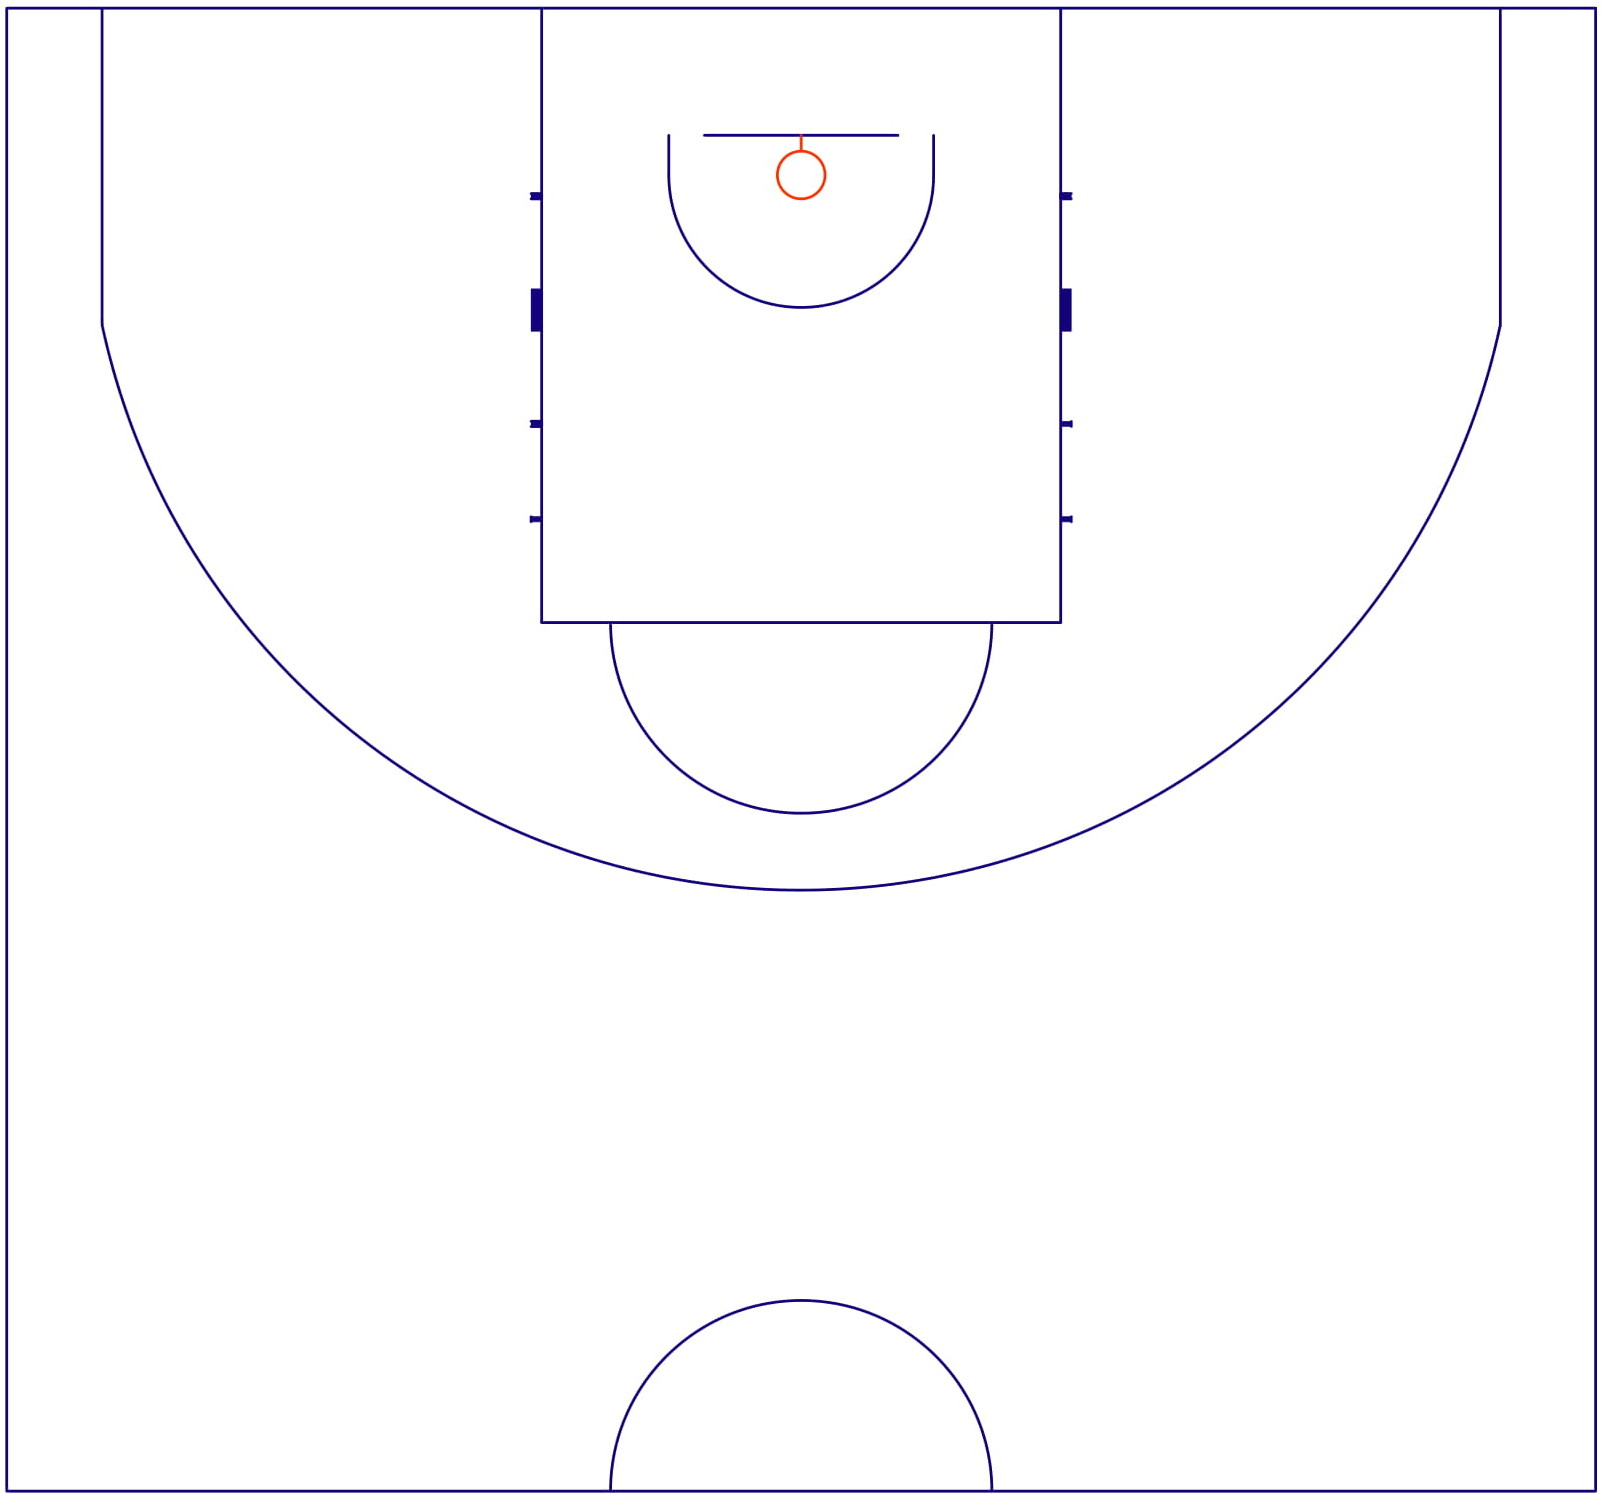
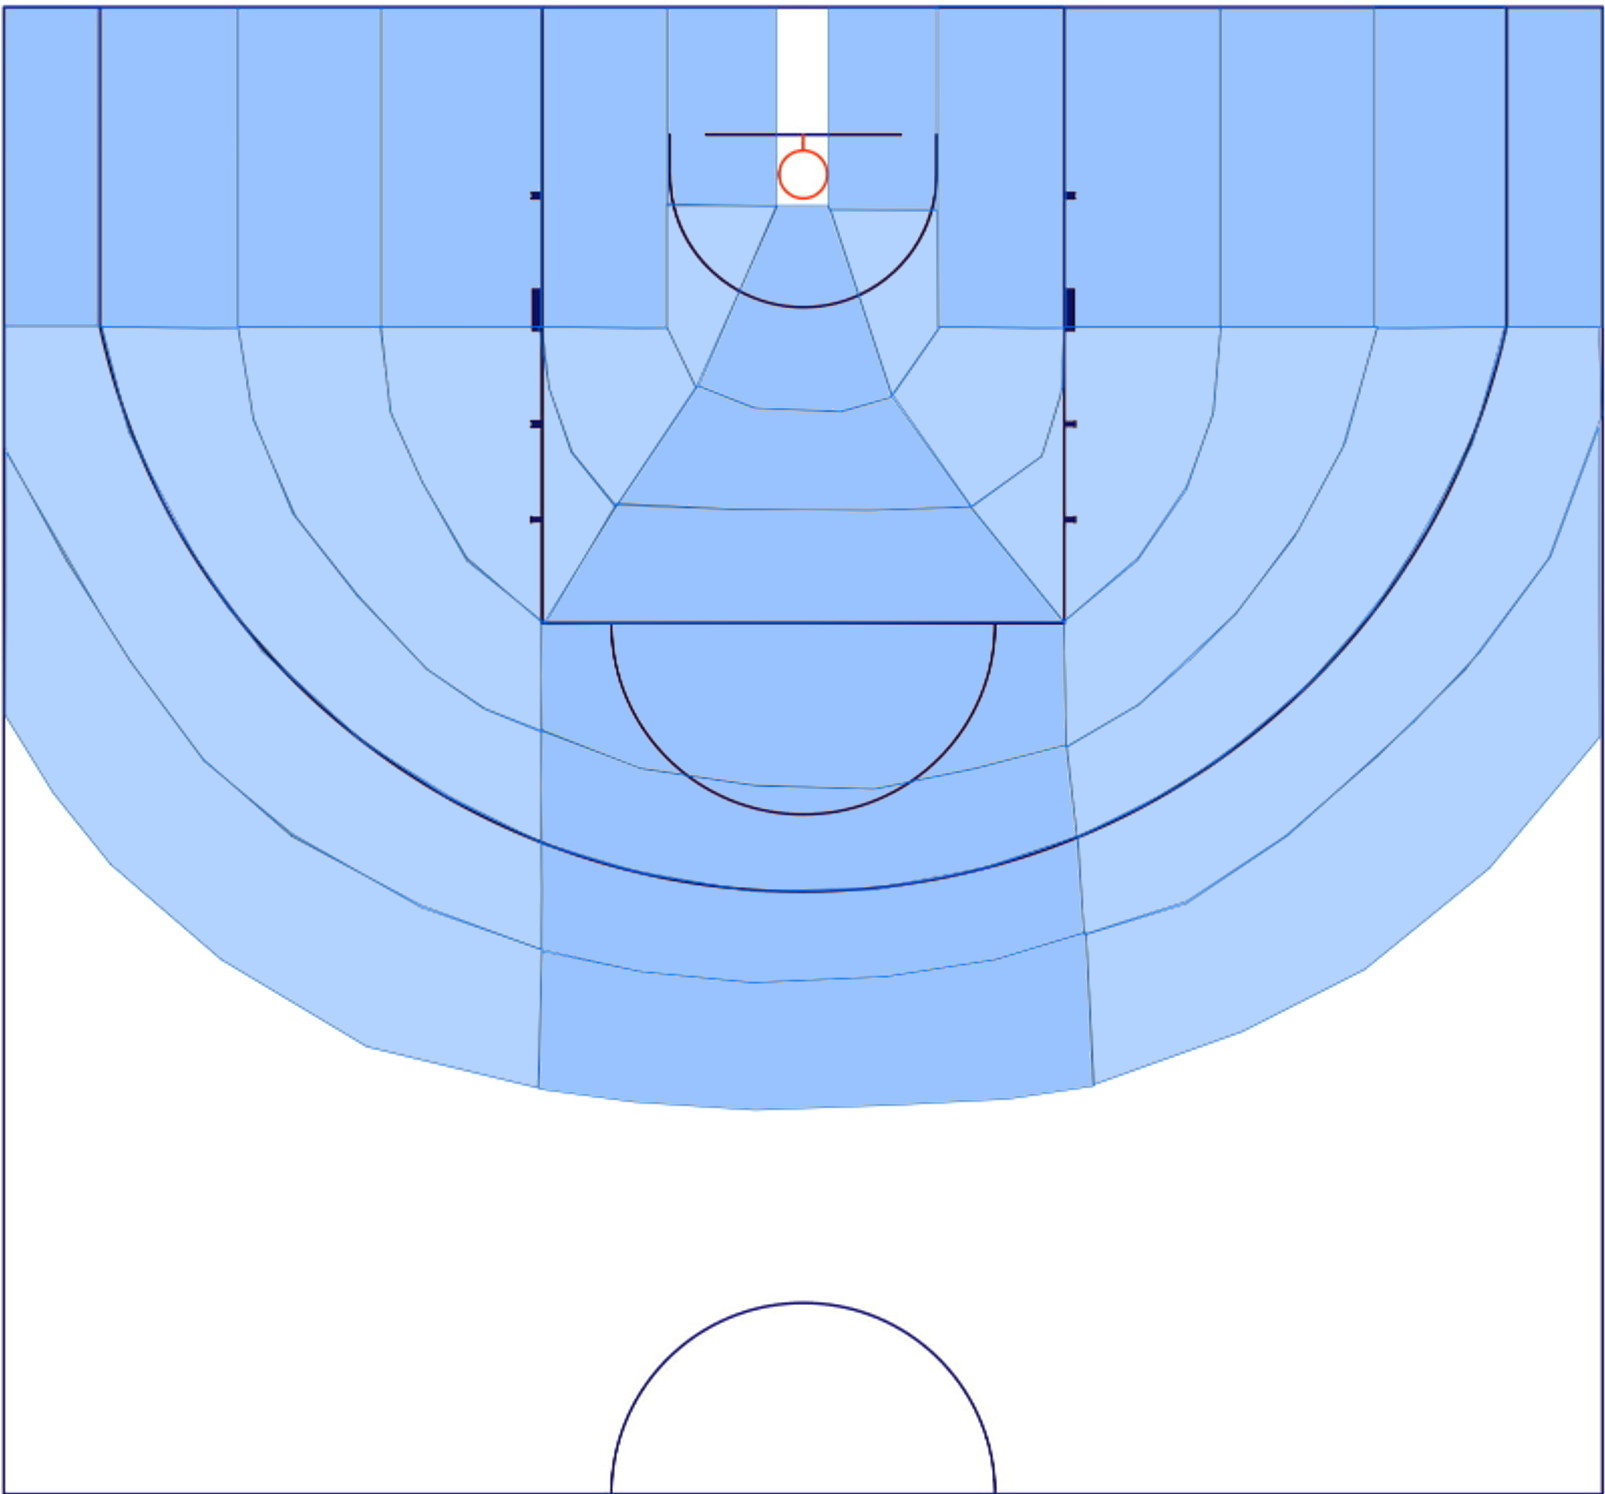
Added increment and decrement actions to shooting page.

diff --git a/app/src/app/private/shooting/shooting.page.html b/app/src/app/private/shooting/shooting.page.html
@@ -12,40 +12,71 @@
   <img id="courtImage" src="../../../assets/basketball-court.jpg" usemap="#courtMap">
 
   <map name="courtMap">
-      <area id="lCorner6" (click)="courtClick($event)" target="" alt="l-corner-6" title="l-corner-6" coords="8,8,100,326" shape="rect">
-      <area id="lCorner5" (click)="courtClick($event)" target="" alt="l-corner-5" title="l-corner-5" coords="104,327,239,9" shape="rect">
-      <area id="lCorner4" (click)="courtClick($event)" target="" alt="l-corner-4" title="l-corner-4" coords="240,9,382,327" shape="rect">
-      <area id="lCorner3" (click)="courtClick($event)" target="" alt="l-corner-3" title="l-corner-3" coords="382,9,541,327" shape="rect">
-      <area id="lCorner2" (click)="courtClick($event)" target="" alt="l-corner-2" title="l-corner-2" coords="542,9,666,327" shape="rect">
-      <area id="lCorner1" (click)="courtClick($event)" target="" alt="l-corner-1" title="l-corner-1" coords="667,9,775,206" shape="rect">
-      <area id="lWing6" (click)="courtClick($event)" target="" alt="l-wing-6" title="l-wing-6" coords="8,326,104,326,128,418,171,515,230,607,289,672,358,736,446,795,541,841,542,889,541,948,422,904,293,835,205,758,133,661,69,560,8,448" shape="poly">
-      <area id="lWing5" (click)="courtClick($event)" target="" alt="l-wing-5" title="l-wing-5" coords="104,327,240,329,255,420,297,516,359,595,427,668,487,709,541,731,542,842,453,797,368,744,264,651,198,558,131,432" shape="poly">
-      <area id="lWing4" (click)="courtClick($event)" target="" alt="l-wing-4" title="l-wing-4" coords="240,327,382,327,391,411,423,482,467,557,541,621,542,730,483,707,427,668,358,595,294,513,255,418" shape="poly">
-      <area id="lWing3" (click)="courtClick($event)" target="" alt="l-wing-3" title="l-wing-3" coords="544,622,616,506,572,452,549,388,542,327,381,327,392,414,423,482,467,560" shape="poly">
-      <area id="lWing2" (click)="courtClick($event)" target="" alt="l-wing-2" title="l-wing-2" coords="615,507,695,387,667,329,539,327,549,388,571,452" shape="poly">
-      <area id="lWing1" (click)="courtClick($event)" target="" alt="l-wing-1" title="l-wing-1" coords="695,388,738,292,776,207,666,204,666,327" shape="poly">
-      <area id="mTop6" (click)="courtClick($event)" target="" alt="m-top-6" title="m-top-6" coords="542,843,639,872,752,890,873,889,978,869,1074,835,1081,931,993,958,883,975,754,981,640,970,542,948" shape="poly">
-      <area id="mTop5" (click)="courtClick($event)" target="" alt="m-top-5" title="m-top-5" coords="542,729,639,767,752,784,874,788,972,768,1063,744,1074,835,982,866,878,886,749,890,634,869,541,841" shape="poly">
-      <area id="mTop4" (click)="courtClick($event)" target="" alt="m-top-4" title="m-top-4" coords="542,622,1061,621,1063,744,973,767,871,788,755,785,642,768,541,730" shape="poly">
-      <area id="mTop3" (click)="courtClick($event)" target="" alt="m-top-3" title="m-top-3" coords="1060,621,968,507,874,510,738,509,616,503,545,624" shape="poly">
-      <area id="mTop2" (click)="courtClick($event)" target="" alt="m-top-2" title="m-top-2" coords="617,505,728,509,866,510,968,506,890,397,840,412,752,408,697,386" shape="poly">
-      <area id="mTop1" (click)="courtClick($event)" target="" alt="m-top-1" title="m-top-1" coords="775,206,827,206,890,397,839,411,755,408,698,386" shape="poly">
-      <area id="rCorner6" (click)="courtClick($event)" target="" alt="r-corner-6" title="r-corner-6" coords="1502,327,1597,10" shape="rect">
-      <area id="rCorner5" (click)="courtClick($event)" target="" alt="r-corner-5" title="r-corner-5" coords="1370,327,1499,7" shape="rect">
-      <area id="rCorner4" (click)="courtClick($event)" target="" alt="r-corner-4" title="r-corner-4" coords="1216,327,1369,10" shape="rect">
-      <area id="rCorner3" (click)="courtClick($event)" target="" alt="r-corner-3" title="r-corner-3" coords="1063,327,1217,10" shape="rect">
-      <area id="rCorner2" (click)="courtClick($event)" target="" alt="r-corner-2" title="r-corner-2" coords="936,7,1060,327" shape="rect">
-      <area id="rCorner1" (click)="courtClick($event)" target="" alt="r-corner-1" title="r-corner-1" coords="827,210,934,9" shape="rect">
-      <area id="rWing6" (click)="courtClick($event)" target="" alt="r-wing-6" title="r-wing-6" coords="1502,327,1470,431,1423,527,1369,610,1299,689,1216,758,1141,804,1075,836,1081,933,1183,900,1281,835,1372,756,1460,669,1543,558,1596,415,1593,327" shape="poly">
-      <area id="rWing5" (click)="courtClick($event)" target="" alt="r-wing-5" title="r-wing-5" coords="1064,746,1135,704,1186,659,1233,612,1294,530,1341,442,1372,329,1499,327,1467,444,1394,575,1321,668,1250,731,1178,784,1074,836" shape="poly">
-      <area id="rWing4" (click)="courtClick($event)" target="" alt="r-wing-4" title="r-wing-4" coords="1061,621,1134,560,1183,489,1210,411,1217,327,1373,327,1338,448,1290,537,1231,614,1135,704,1063,746" shape="poly">
-      <area id="rWing3" (click)="courtClick($event)" target="" alt="r-wing-3" title="r-wing-3" coords="969,507,1039,456,1060,387,1061,327,1217,327,1209,415,1183,486,1135,557,1061,621" shape="poly">
-      <area id="rWing2" (click)="courtClick($event)" target="" alt="r-wing-2" title="r-wing-2" coords="891,395,938,327,1061,329,1058,395,1039,456,969,506" shape="poly">
-      <area id="rWing1" (click)="courtClick($event)" target="" alt="r-wing-1" title="r-wing-1" coords="829,210,935,211,936,329,890,395" shape="poly">
-      <area id="rWing7" (click)="courtClick($event)" target="" alt="r-wing-7" title="r-wing-7" coords="1593,427,1594,736,1484,867,1360,968,1238,1030,1090,1083,1083,933,1183,902,1284,834,1409,721,1475,651,1545,556" shape="poly">
-      <area id="mTop7" (click)="courtClick($event)" target="" alt="m-top-7" title="m-top-7" coords="542,950,640,970,749,981,885,975,993,958,1083,931,1091,1084,1005,1097,893,1103,754,1108,634,1100,539,1087" shape="poly">
-      <area id="lWing7" (click)="courtClick($event)" target="" alt="l-wing-7" title="l-wing-7" coords="538,1086,368,1045,223,958,113,863,56,792,8,714,9,452,104,615,133,661,206,760,294,833,422,906,542,948" shape="poly">
+      <area id="lCorner6" (click)="courtClick($event)" alt="l-corner-6" title="l-corner-6" coords="8,8,100,326" shape="rect">
+      <area id="lCorner5" (click)="courtClick($event)" alt="l-corner-5" title="l-corner-5" coords="104,327,239,9" shape="rect">
+      <area id="lCorner4" (click)="courtClick($event)" alt="l-corner-4" title="l-corner-4" coords="240,9,382,327" shape="rect">
+      <area id="lCorner3" (click)="courtClick($event)" alt="l-corner-3" title="l-corner-3" coords="382,9,541,327" shape="rect">
+      <area id="lCorner2" (click)="courtClick($event)" alt="l-corner-2" title="l-corner-2" coords="542,9,666,327" shape="rect">
+      <area id="lCorner1" (click)="courtClick($event)" alt="l-corner-1" title="l-corner-1" coords="667,9,775,206" shape="rect">
+      <area id="lWing6" (click)="courtClick($event)" alt="l-wing-6" title="l-wing-6" coords="8,326,104,326,128,418,171,515,230,607,289,672,358,736,446,795,541,841,542,889,541,948,422,904,293,835,205,758,133,661,69,560,8,448" shape="poly">
+      <area id="lWing5" (click)="courtClick($event)" alt="l-wing-5" title="l-wing-5" coords="104,327,240,329,255,420,297,516,359,595,427,668,487,709,541,731,542,842,453,797,368,744,264,651,198,558,131,432" shape="poly">
+      <area id="lWing4" (click)="courtClick($event)" alt="l-wing-4" title="l-wing-4" coords="240,327,382,327,391,411,423,482,467,557,541,621,542,730,483,707,427,668,358,595,294,513,255,418" shape="poly">
+      <area id="lWing3" (click)="courtClick($event)" alt="l-wing-3" title="l-wing-3" coords="544,622,616,506,572,452,549,388,542,327,381,327,392,414,423,482,467,560" shape="poly">
+      <area id="lWing2" (click)="courtClick($event)" alt="l-wing-2" title="l-wing-2" coords="615,507,695,387,667,329,539,327,549,388,571,452" shape="poly">
+      <area id="lWing1" (click)="courtClick($event)" alt="l-wing-1" title="l-wing-1" coords="695,388,738,292,776,207,666,204,666,327" shape="poly">
+      <area id="mTop6" (click)="courtClick($event)" alt="m-top-6" title="m-top-6" coords="542,843,639,872,752,890,873,889,978,869,1074,835,1081,931,993,958,883,975,754,981,640,970,542,948" shape="poly">
+      <area id="mTop5" (click)="courtClick($event)" alt="m-top-5" title="m-top-5" coords="542,729,639,767,752,784,874,788,972,768,1063,744,1074,835,982,866,878,886,749,890,634,869,541,841" shape="poly">
+      <area id="mTop4" (click)="courtClick($event)" alt="m-top-4" title="m-top-4" coords="542,622,1061,621,1063,744,973,767,871,788,755,785,642,768,541,730" shape="poly">
+      <area id="mTop3" (click)="courtClick($event)" alt="m-top-3" title="m-top-3" coords="1060,621,968,507,874,510,738,509,616,503,545,624" shape="poly">
+      <area id="mTop2" (click)="courtClick($event)" alt="m-top-2" title="m-top-2" coords="617,505,728,509,866,510,968,506,890,397,840,412,752,408,697,386" shape="poly">
+      <area id="mTop1" (click)="courtClick($event)" alt="m-top-1" title="m-top-1" coords="775,206,827,206,890,397,839,411,755,408,698,386" shape="poly">
+      <area id="rCorner6" (click)="courtClick($event)" alt="r-corner-6" title="r-corner-6" coords="1502,327,1597,10" shape="rect">
+      <area id="rCorner5" (click)="courtClick($event)" alt="r-corner-5" title="r-corner-5" coords="1370,327,1499,7" shape="rect">
+      <area id="rCorner4" (click)="courtClick($event)" alt="r-corner-4" title="r-corner-4" coords="1216,327,1369,10" shape="rect">
+      <area id="rCorner3" (click)="courtClick($event)" alt="r-corner-3" title="r-corner-3" coords="1063,327,1217,10" shape="rect">
+      <area id="rCorner2" (click)="courtClick($event)" alt="r-corner-2" title="r-corner-2" coords="936,7,1060,327" shape="rect">
+      <area id="rCorner1" (click)="courtClick($event)" alt="r-corner-1" title="r-corner-1" coords="827,210,934,9" shape="rect">
+      <area id="rWing6" (click)="courtClick($event)" alt="r-wing-6" title="r-wing-6" coords="1502,327,1470,431,1423,527,1369,610,1299,689,1216,758,1141,804,1075,836,1081,933,1183,900,1281,835,1372,756,1460,669,1543,558,1596,415,1593,327" shape="poly">
+      <area id="rWing5" (click)="courtClick($event)" alt="r-wing-5" title="r-wing-5" coords="1064,746,1135,704,1186,659,1233,612,1294,530,1341,442,1372,329,1499,327,1467,444,1394,575,1321,668,1250,731,1178,784,1074,836" shape="poly">
+      <area id="rWing4" (click)="courtClick($event)" alt="r-wing-4" title="r-wing-4" coords="1061,621,1134,560,1183,489,1210,411,1217,327,1373,327,1338,448,1290,537,1231,614,1135,704,1063,746" shape="poly">
+      <area id="rWing3" (click)="courtClick($event)" alt="r-wing-3" title="r-wing-3" coords="969,507,1039,456,1060,387,1061,327,1217,327,1209,415,1183,486,1135,557,1061,621" shape="poly">
+      <area id="rWing2" (click)="courtClick($event)" alt="r-wing-2" title="r-wing-2" coords="891,395,938,327,1061,329,1058,395,1039,456,969,506" shape="poly">
+      <area id="rWing1" (click)="courtClick($event)" alt="r-wing-1" title="r-wing-1" coords="829,210,935,211,936,329,890,395" shape="poly">
+      <area id="rWing7" (click)="courtClick($event)" alt="r-wing-7" title="r-wing-7" coords="1593,427,1594,736,1484,867,1360,968,1238,1030,1090,1083,1083,933,1183,902,1284,834,1409,721,1475,651,1545,556" shape="poly">
+      <area id="mTop7" (click)="courtClick($event)" alt="m-top-7" title="m-top-7" coords="542,950,640,970,749,981,885,975,993,958,1083,931,1091,1084,1005,1097,893,1103,754,1108,634,1100,539,1087" shape="poly">
+      <area id="lWing7" (click)="courtClick($event)" alt="l-wing-7" title="l-wing-7" coords="538,1086,368,1045,223,958,113,863,56,792,8,714,9,452,104,615,133,661,206,760,294,833,422,906,542,948" shape="poly">
   </map>
 
-  <p>{{spots[spot]}}</p>
+  <p text-center>{{spots[spot] || 'Select Spot'}}</p>
+
+  <ion-grid>
+    <ion-row>
+      <ion-col col-4>
+        <ion-item>
+          <ion-input id="makes" type="number" [(value)]="makes" placeholder="Makes"></ion-input>
+        </ion-item>
+      </ion-col>
+      <ion-col col-4>
+        <ion-button color="secondary" expand="block" strong="true" (click)="changeShot('M', '+')">+</ion-button>
+      </ion-col>
+      <ion-col col-4>
+        <ion-button color="danger" expand="block" strong="true" (click)="changeShot('M', '-')">-</ion-button>
+      </ion-col>
+    </ion-row>
+    <ion-row>
+      <ion-col col-4>
+        <ion-item>
+          <ion-input id="attempts" type="number" [(value)]="attempts" placeholder="Attempts"></ion-input>
+        </ion-item>
+      </ion-col>
+      <ion-col col-4>
+        <ion-button color="secondary" expand="block" strong="true" (click)="changeShot('A', '+')">+</ion-button>
+      </ion-col>
+      <ion-col col-4>
+        <ion-button color="danger" expand="block" strong="true" (click)="changeShot('A', '-')">-</ion-button>
+      </ion-col>
+    </ion-row>
+  </ion-grid>
+
+  <ion-button id="saveButton" expand="block" strong="true">Save</ion-button>
 </ion-content>

diff --git a/app/src/app/private/shooting/shooting.page.ts b/app/src/app/private/shooting/shooting.page.ts
@@ -48,6 +48,8 @@ export class ShootingPage implements OnInit {
     'mTop6': 'Middle Top 6',
     'mTop7': 'Middle Top 7'
   };
+  private makes = 0;
+  private attempts = 0;
 
   constructor() { }
 
@@ -76,9 +78,21 @@ export class ShootingPage implements OnInit {
       left: ${(event.pageX - 7)}px;
       width: 15px;
       height: 15px;
-      background: #f57c00;
+      background: #006bff;
       border-radius: 10px;
     `;
     document.querySelector('#content').insertAdjacentHTML('beforeend', `<div id="marker" style="${style}"></div>`);
+  }
+
+  changeShot(type, modifier) {
+    if (type === 'M') {
+      if (modifier === '+') {
+        this.makes += 1;
+      }
+    } else if (type === 'A') {
+      if (modifier === '+') {
+        this.attempts += 1;
+      }
+    }
   }
 }

diff --git a/app/src/app/private/shooting/shooting.page.scss b/app/src/app/private/shooting/shooting.page.scss
@@ -2,3 +2,7 @@
     display: block;
     margin: 0 auto;
 }
+
+#saveButton {
+    margin-top: 15px;
+}
